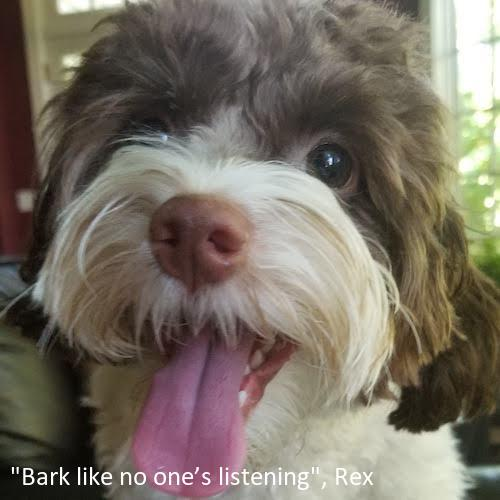
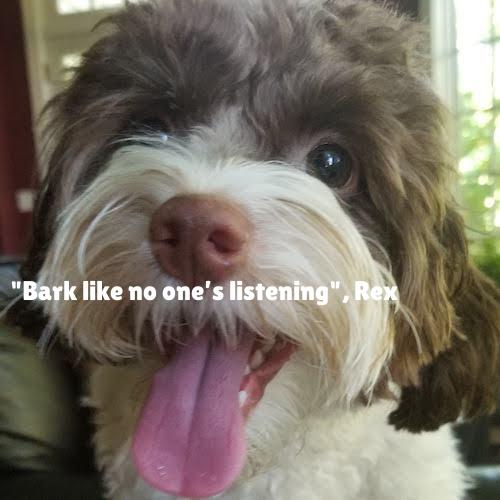
Add files via upload

Changed region(s): [[0.03, 0.93, 0.63, 0.99], [0.03, 0.54, 0.81, 0.63], [0.66, 0.93, 0.75, 0.99]]

diff --git a/QuoteEngine/IngestorInterface.py b/QuoteEngine/IngestorInterface.py
@@ -5,7 +5,6 @@ Child classes will be ingestor classes for specific file types.
 
 from abc import ABC, abstractmethod
 from .QuoteModel import QuoteModel
-from typing import List
 
 
 class IngestorInterface(ABC):
@@ -21,6 +20,6 @@ class IngestorInterface(ABC):
 
     @classmethod
     @abstractmethod
-    def parse(cls, path: str) -> List[QuoteModel]:
+    def parse(cls, path: str):
         """Ingest the file in path and returns a list of QuoteModels of ingested Quotes."""
         pass

diff --git a/QuoteEngine/IngestorDOCX.py b/QuoteEngine/IngestorDOCX.py
@@ -13,7 +13,7 @@ class IngestorDOCX(IngestorInterface):
     supported_formats = {'docx'}
 
     @classmethod
-    def parse(cls, path: str) -> list[QuoteModel]:
+    def parse(cls, path: str):
         """Ingest the file in path and returns a list of QuoteModels of ingested Quotes."""
         if not cls.can_ingest(path):
             raise Exception(f'unsupported file format: requires{cls.supported_formats}')

diff --git a/QuoteEngine/IngestorCSV.py b/QuoteEngine/IngestorCSV.py
@@ -13,7 +13,7 @@ class IngestorCSV(IngestorInterface):
     supported_formats = {'csv'}
 
     @classmethod
-    def parse(cls, path: str) -> list[QuoteModel]:
+    def parse(cls, path: str):
         """Ingest the file in path and returns a list of QuoteModels of ingested Quotes."""
         if not cls.can_ingest(path):
             raise Exception(f'unsupported file format: requires{cls.supported_formats}')

diff --git a/QuoteEngine/IngestorTXT.py b/QuoteEngine/IngestorTXT.py
@@ -12,7 +12,7 @@ class IngestorTXT(IngestorInterface):
     supported_formats = {'txt'}
 
     @classmethod
-    def parse(cls, path: str) -> list[QuoteModel]:
+    def parse(cls, path: str):
         """Ingest the file in path and returns a list of QuoteModels of ingested Quotes."""
         if not cls.can_ingest(path):
             raise Exception(f'unsupported file format: requires{cls.supported_formats}')

diff --git a/MemeEngine/MemeEngine.py b/MemeEngine/MemeEngine.py
@@ -22,7 +22,7 @@ class MemeEngine:
 
     # supported_file_types={'jpg','png'}
     meme_width = 500  # set the width of the meme
-    meme_font = 'calibri'  # truetype font of the meme
+    meme_font = './LilitaOne-Regular.ttf'  # truetype font of the meme
     meme_fill = 'white'  # fill color for meme text
     meme_factor = 18  # how much smaller the font size is relative to width
 

diff --git a/QuoteEngine/IngestorPDF.py b/QuoteEngine/IngestorPDF.py
@@ -16,7 +16,7 @@ class IngestorPDF(IngestorInterface):
     supported_formats = {'pdf'}
 
     @classmethod
-    def parse(cls, path: str) -> list[QuoteModel]:
+    def parse(cls, path: str):
         """Ingest the file in path and returns a list of QuoteModels of ingested Quotes.
 
         Use a subprocess to call pdftotext to convert the pdf to a random temp text file.
